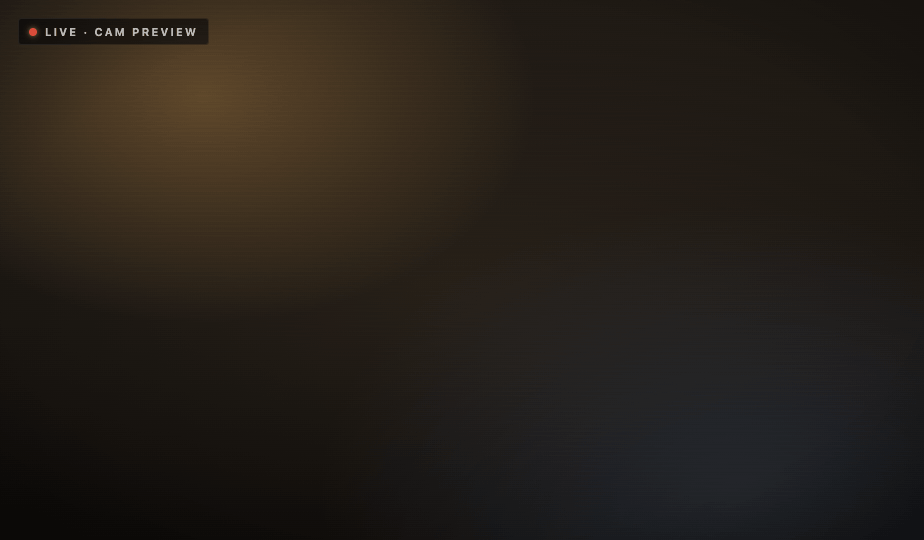
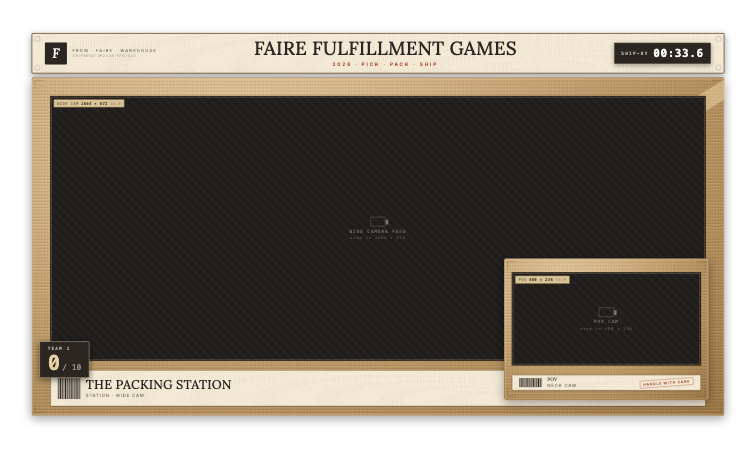
docs: replace screenshots with accurate headless-Chrome captures
New screenshots taken from the live localhost:3000 instance using headless
Chrome — correct team names, real timer, actual layout proportions. Also adds
the single-pip overlay (01) which was previously omitted, and renames the H2H
and champion files to generic names (no team-specific suffixes).

diff --git a/README.md b/README.md
@@ -6,25 +6,30 @@ OBS-ready browser-source overlays for the four-team fulfillment livestream. Card
 
 ## Overlays
 
-### Four-Up Grid (Overlay 3)
-Live 2×2 grid showing all four teams simultaneously, each with a large order counter.
+### Single Cam + PiP (Overlay 1)
+Wide cam with a PiP inset and live order counter. Use `?team=0–3` to assign a team.
 
-![Four-Up Grid](screenshots/readme/03-four-up.png)
+![Single Cam + PiP](screenshots/readme/01-single-pip.png)
 
 ### Four Portraits (Overlay 2)
 Title / open layout — four teams in tall portrait frames, ideal for the pre-race intro.
 
 ![Four Portraits](screenshots/readme/02-four-portrait.png)
 
+### Four-Up Grid (Overlay 3)
+Live 2×2 grid showing all four teams simultaneously, each with a large order counter.
+
+![Four-Up Grid](screenshots/readme/03-four-up.png)
+
 ### Head-to-Head (Overlay 4)
 Side-by-side matchup layout for semi-finals. Teams and score pills are set from the admin page.
 
-![Head-to-Head](screenshots/readme/04-head-to-head-kw-tor.png)
+![Head-to-Head](screenshots/readme/04-head-to-head.png)
 
 ### Champion Reveal (Overlay 5)
 Winner reveal screen — hero cam frame with a _Faire 1st Place_ stamp and a **DELIVERED** diagonal across the feed.
 
-![Champion Reveal](screenshots/readme/05-champion-sf.png)
+![Champion Reveal](screenshots/readme/05-champion.png)
 
 ---
 